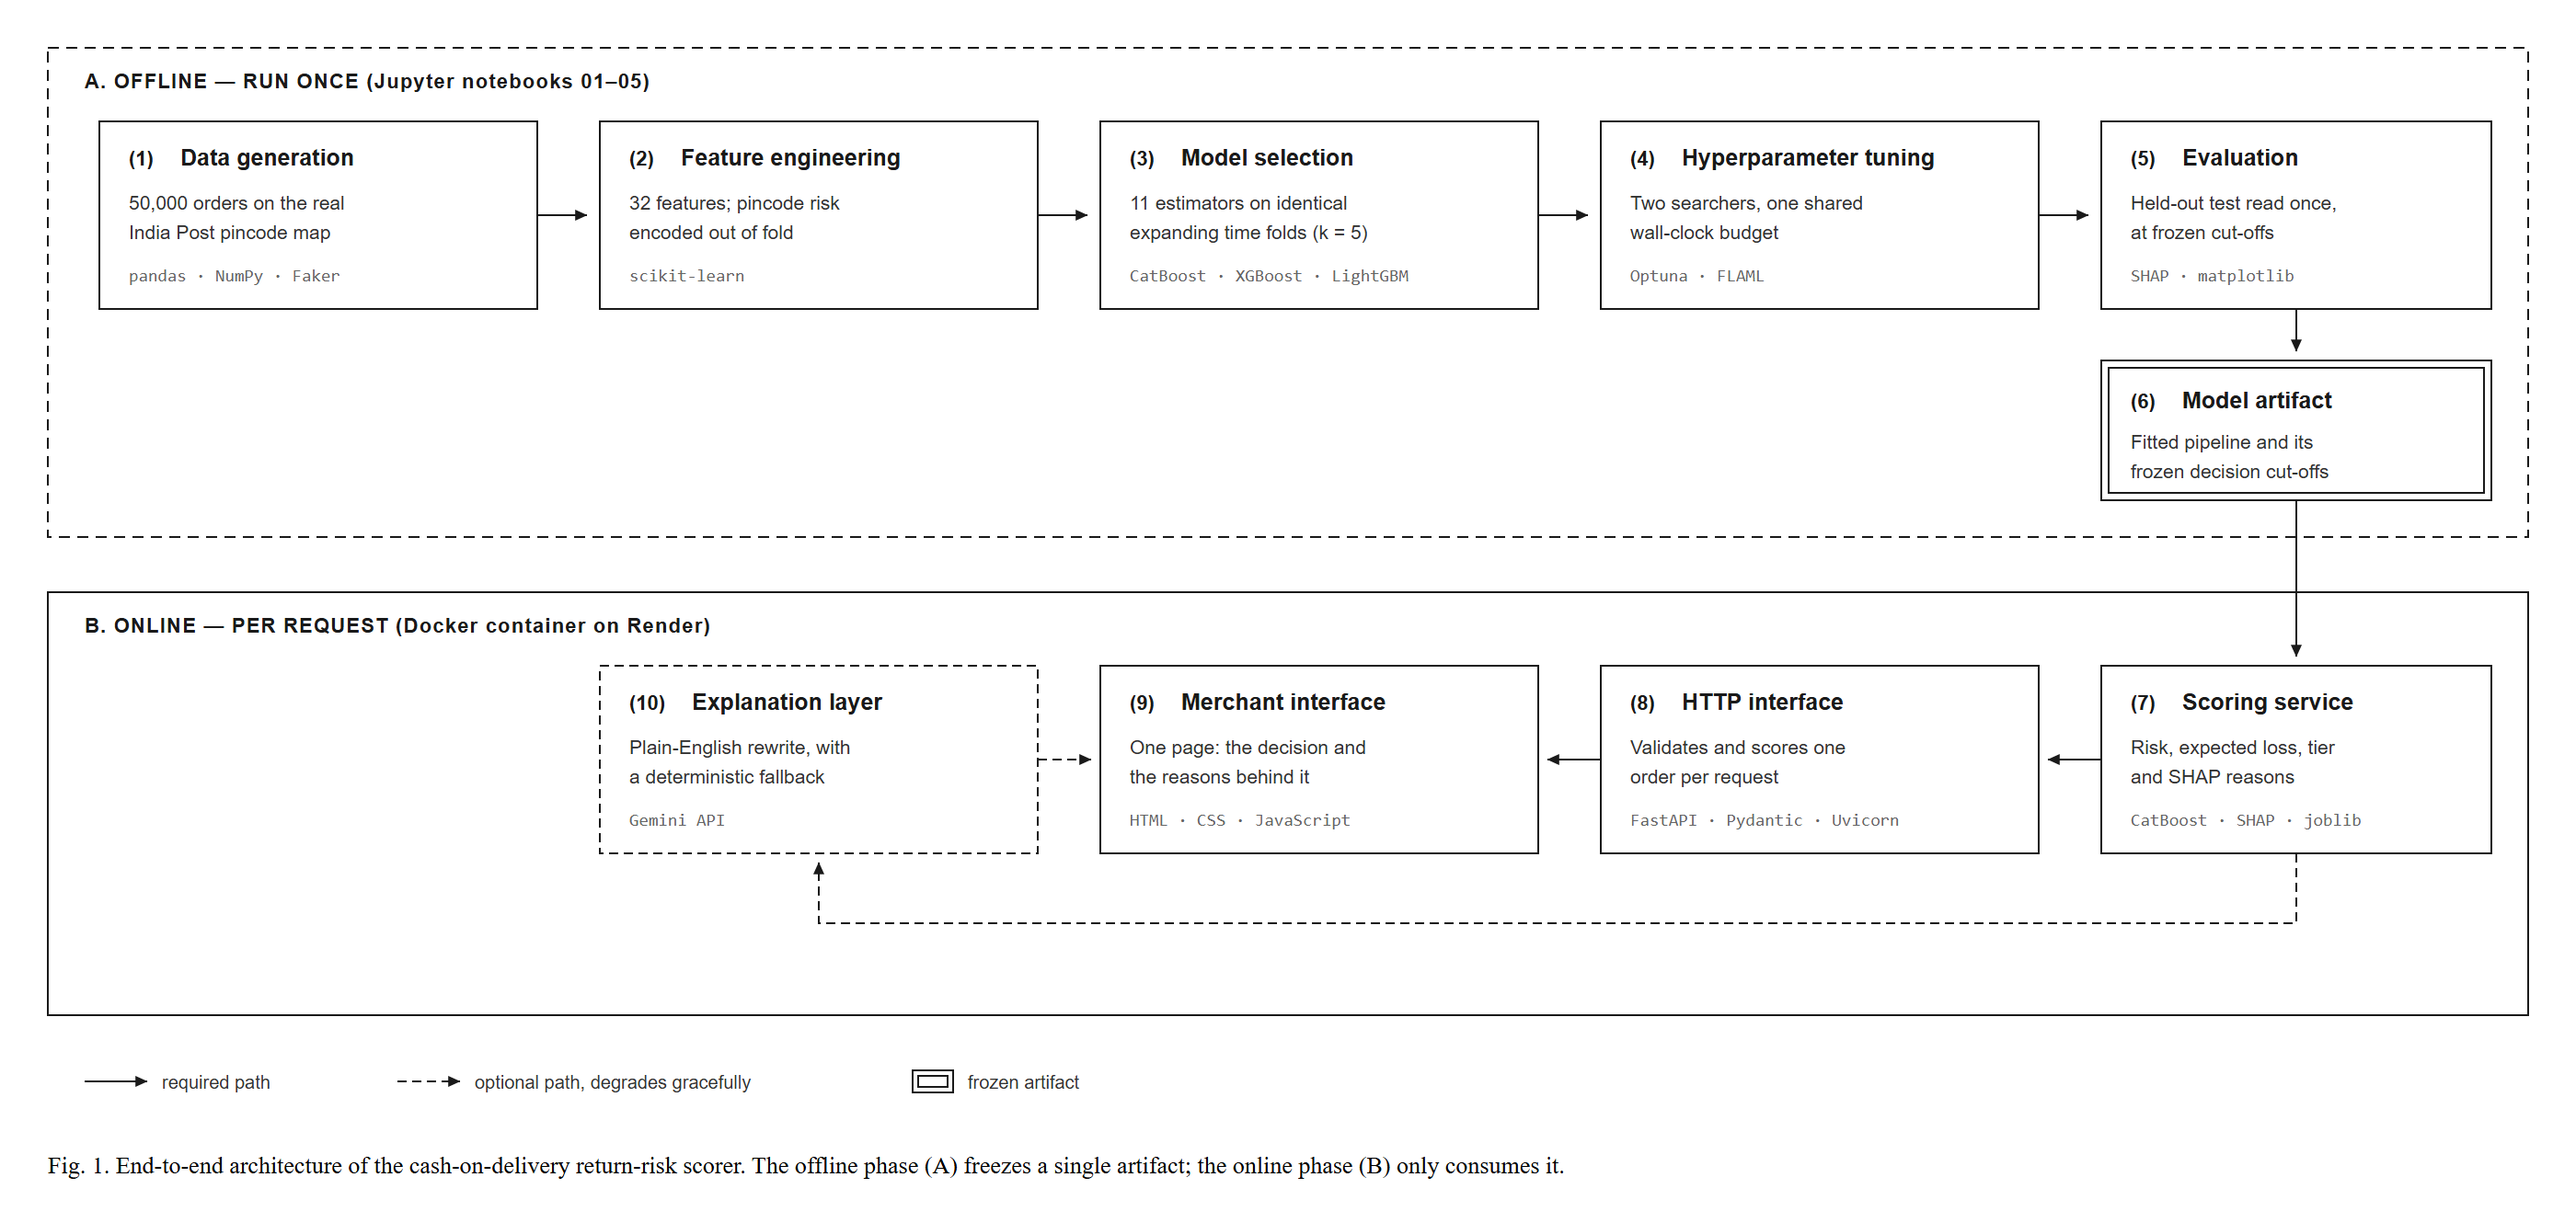
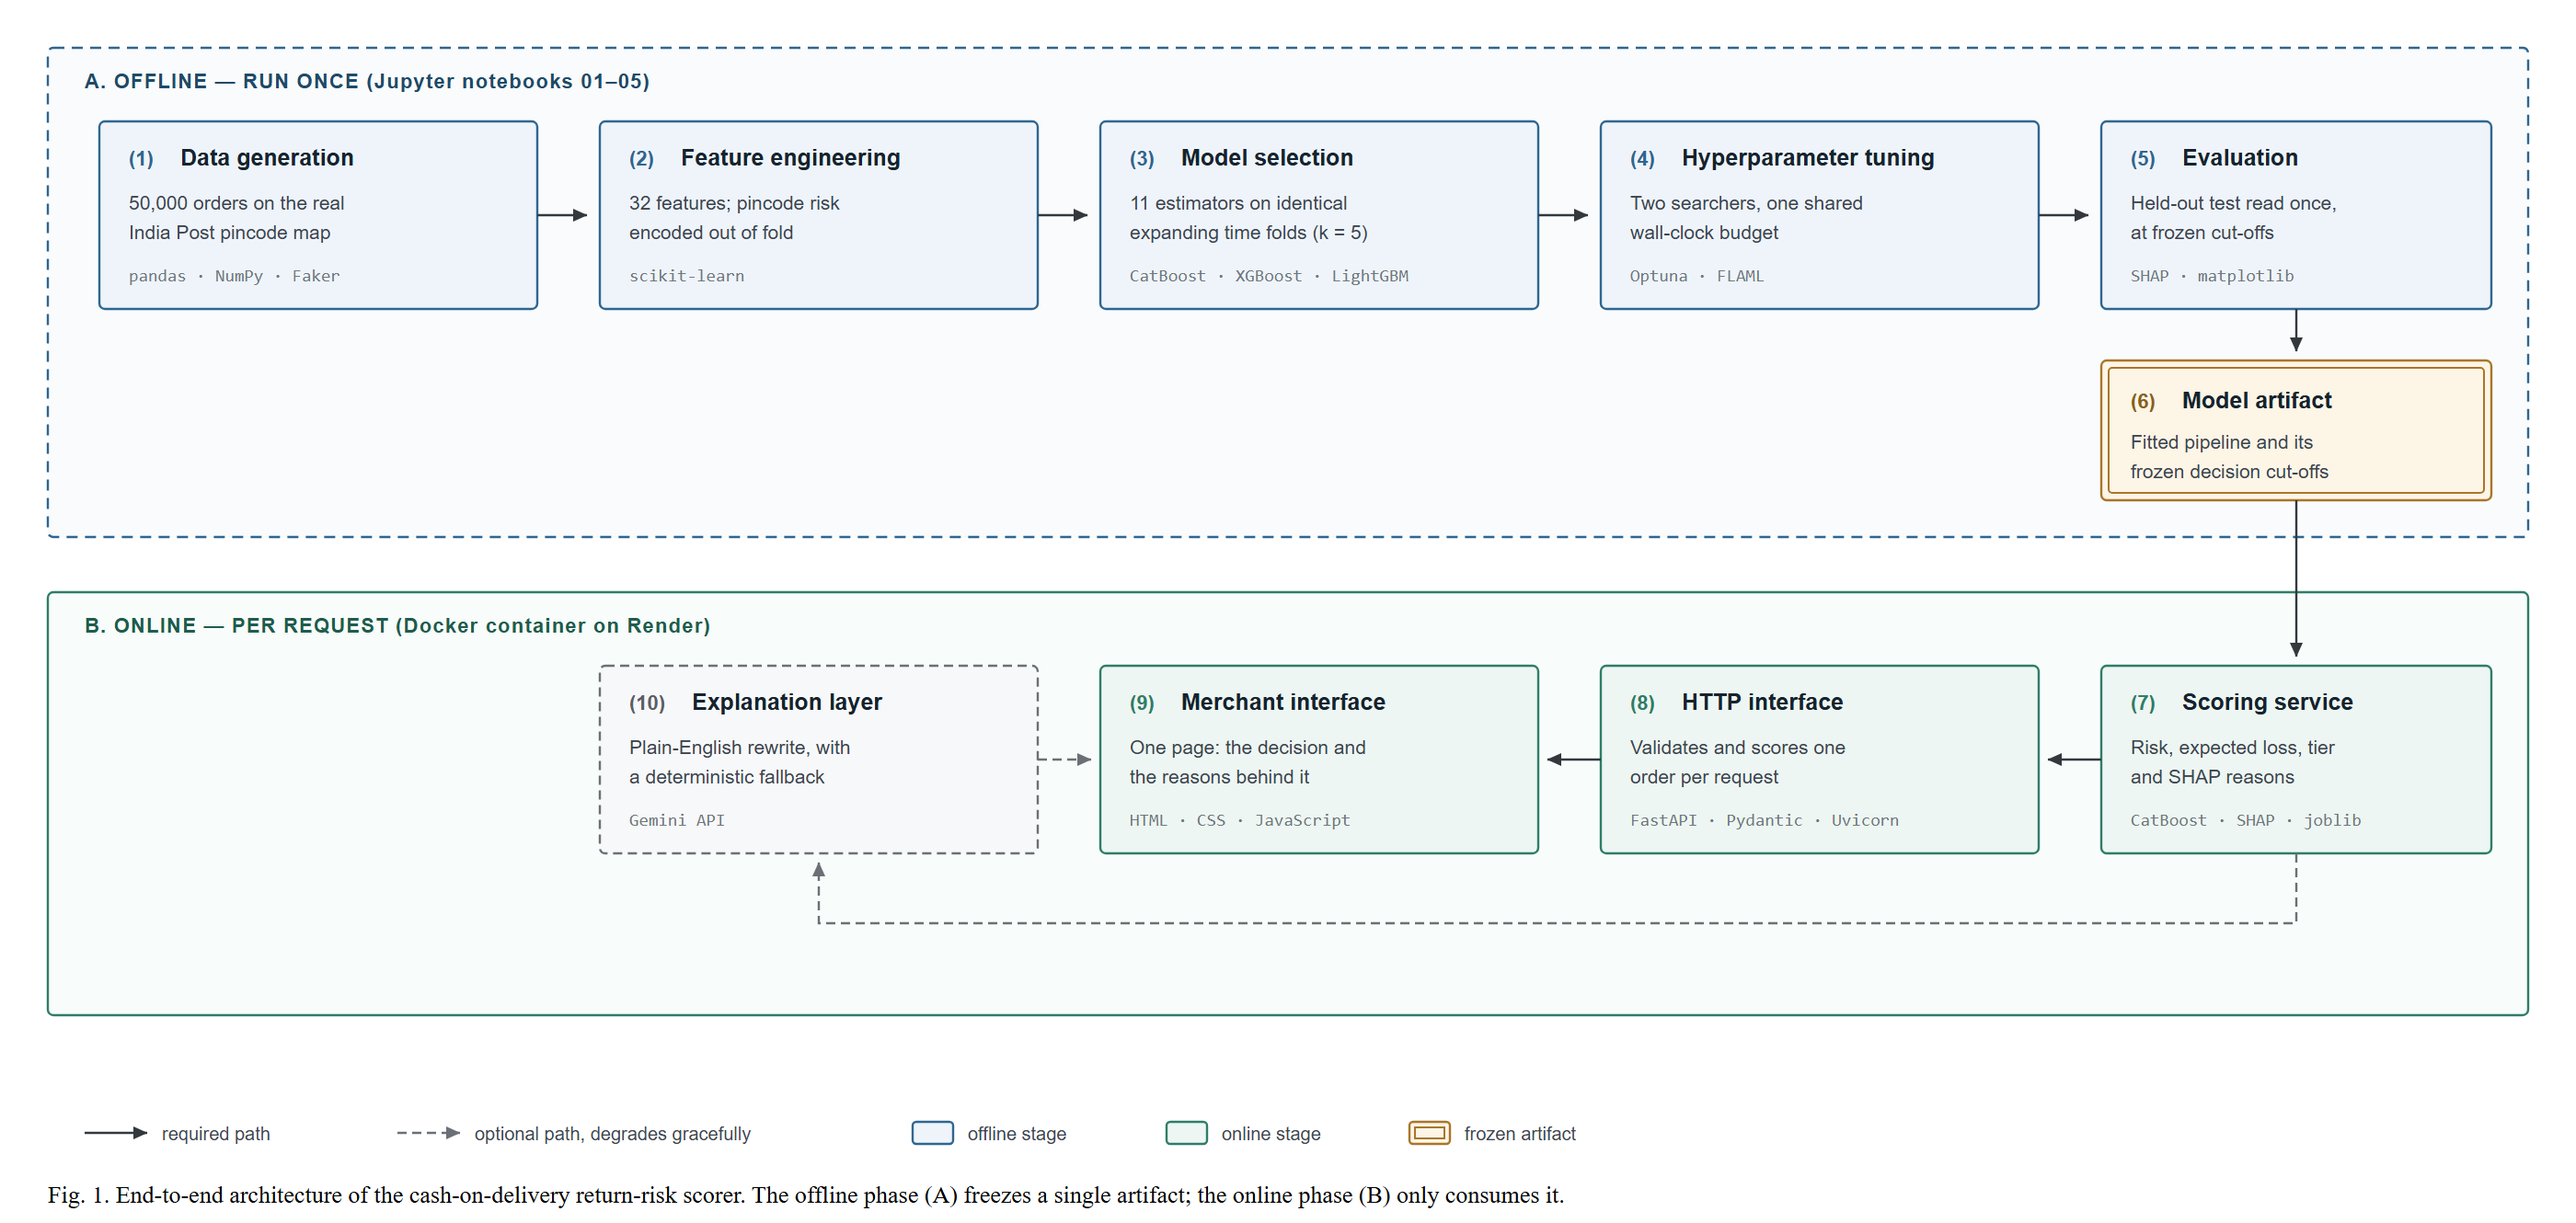
Colour the architecture figure, and put the README in conventional order
Figure: muted palette, blue for the offline stages, green for the online ones,
amber for the frozen artifact, neutral grey for the optional explanation layer.
Hue is redundant with shape throughout - the phases were already separated by a
dashed vs solid container and the optional path by dashed borders and arrows -
so the figure still reads in greyscale and under common colour-vision
deficiencies. Legend gains the two stage swatches.

README order: results were split across three places (a rupee summary near the
top, the charts in the middle, the metric tables at the bottom under "For the
technically minded"). They are now one Results section with four subsections,
and the order runs problem, what it does, demo, results, architecture, stack,
getting started, structure, method, limitations, defence, deployment, licence,
citation, author.

Fixes exposed by the reorder: two horizontal rules that sat inside a section
rather than between sections, a paragraph opening "The section above is
deliberately free of jargon" that no longer had that section above it, a
heading whose intro repeated it almost word for word, and a trailing rule after
the author line. Adds a Citation section pointing at CITATION.cff.

All 57 metric values re-verified against reports/results/ after the move.
No model, threshold, tier cut-off or result changed.

diff --git a/README.md b/README.md
@@ -46,23 +46,6 @@ You give it an order. It gives you four things, in plain English.
 
 It only ever advises. It never blocks a customer, takes money, or contacts anyone.
 
-## What it's worth
-
-Tested on 10,000 orders the model had never seen.
-
-| | |
-|---|---|
-| **Money saved** | **₹29,481** against the best you could do with no model at all |
-| **Cost of a lazy cut-off** | **₹20,835** — what you'd waste flagging at 50% out of habit instead of at the point where money is actually minimised |
-| **Catches** | About 1 in 4 of the orders that would have come back |
-| **When it flags an order** | It's right a little under half the time |
-
-That last row matters and it's stated deliberately. This is not a tool that is right every
-time. It's a tool that, once you add up the wins and the mistakes in rupees, leaves the
-seller better off.
-
----
-
 ## Demo
 
 Three real orders, scored by the live model. Switch between them in the dropdown.
@@ -83,36 +66,27 @@ The blue box at the top of each is written by Google Gemini, which turns the raw
 into something a shop owner can read. If the Gemini key is missing or its free quota is used
 up, the app writes the same summary itself and carries on working.
 
-## How it fits together
-
-![Architecture, from generated data through to the merchant-facing page](docs/architecture_diagram.png)
-
-Editable source, [`docs/architecture_diagram.svg`](docs/architecture_diagram.svg)
-
-## Built with
-
-| Stage | Stack |
-|---|---|
-| Data generation | pandas, NumPy, SciPy, Faker |
-| Modelling | scikit-learn, CatBoost, XGBoost, LightGBM |
-| Tuning | Optuna, FLAML |
-| Explainability | SHAP, and Google Gemini for the plain-English layer |
-| Charts | matplotlib, seaborn |
-| Service | FastAPI, Pydantic, Uvicorn, joblib |
-| Interface | HTML, CSS and JavaScript; Streamlit as an alternative UI |
-| Deployment | Docker, Render |
-| Tests | pytest, 55 tests |
-
-Python 3.13, exact versions pinned in [`requirements.txt`](requirements.txt). The container
-installs the shorter [`deploy/requirements-serve.txt`](deploy/requirements-serve.txt) instead,
-which drops Jupyter, Optuna, FLAML, Streamlit and matplotlib.
-
----
-
 ## Results
 
-Four charts that carry most of the argument. Every one is produced by the notebooks and
-lives in [`reports/figures/`](reports/figures/), nothing here was drawn by hand.
+### What it's worth
+
+Tested on 10,000 orders the model had never seen.
+
+| | |
+|---|---|
+| **Money saved** | **₹29,481** against the best you could do with no model at all |
+| **Cost of a lazy cut-off** | **₹20,835** — what you'd waste flagging at 50% out of habit instead of at the point where money is actually minimised |
+| **Catches** | About 1 in 4 of the orders that would have come back |
+| **When it flags an order** | It's right a little under half the time |
+
+That last row matters and it's stated deliberately. This is not a tool that is right every
+time. It's a tool that, once you add up the wins and the mistakes in rupees, leaves the
+seller better off.
+
+### The charts that carry the argument
+
+Each one is produced by the notebooks and lives in
+[`reports/figures/`](reports/figures/). Nothing here was drawn by hand.
 
 ### Did any model actually beat a simple one?
 
@@ -157,6 +131,71 @@ arithmetic corrects it, cutting the worst-case waste from **₹16.42 to ₹0.08 
 A second study reweights the test set to seven different merchant profiles, from
 metro-heavy to small-town, fashion-led to electronics-led. Ranking stays useful in all
 seven, and the full table is in [`WHAT_BROKE.md`](WHAT_BROKE.md) #18.
+
+### Every metric, in full
+
+**Headline numbers**, all backed by files in `reports/results/`. The full set, including
+per-segment, per-fold and per-profile breakdowns, is in [`reports/METRICS.md`](reports/METRICS.md).
+
+| | Test set | Validation |
+|---|---|---|
+| PR-AUC | 0.386, which is 2.62× the no-skill floor | 0.397 |
+| ROC-AUC | 0.806 | 0.810 |
+| Brier score | 0.106 | 0.109 |
+| Log loss | 0.336 | 0.344 |
+| Expected calibration error | 0.012 | 0.013 |
+| Mean predicted probability | 0.151, against a 0.147 base rate | 0.157, against 0.155 |
+| Precision / recall / F1 **at the frozen 0.37** | 0.458 / 0.269 / 0.339 | 0.480 / 0.297 / 0.367 |
+| Flag rate at 0.37 | 0.0864 | 0.0958 |
+
+The Bayes ceiling for this data is a PR-AUC of 0.555, so the model captures about 70% of it
+on test. A score above the ceiling would be evidence of a leak rather than of skill, and the
+notebooks assert on it.
+
+**The operating point is 0.37, not 0.5.** That row above is often misread, so here is the
+whole trade-off on the test set. The threshold was fixed on validation before the test set
+was opened; this table is descriptive and changed no decision.
+
+| Threshold | Precision | Recall | F1 | Flag rate | Cost / order |
+|---|---|---|---|---|---|
+| 0.20 | 0.333 | 0.688 | 0.449 | 30.47% | ₹32.53 |
+| 0.25 | 0.356 | 0.574 | 0.440 | 23.74% | ₹29.32 |
+| 0.30 | 0.377 | 0.439 | 0.406 | 17.15% | ₹27.81 |
+| 0.35 | 0.432 | 0.312 | 0.362 | 10.65% | ₹26.70 |
+| **0.37 ← frozen** | **0.458** | **0.269** | **0.339** | **8.64%** | **₹26.51** |
+| 0.40 | 0.477 | 0.193 | 0.275 | 5.95% | ₹27.13 |
+| 0.50 | 0.565 | 0.050 | 0.092 | 1.31% | ₹28.60 |
+
+F1 peaks near 0.25, but F1 is not the objective here — rupees are, and the cost minimum sits
+at 0.37. The 0.5 default flags barely 1% of orders and costs ₹20,835 more across 10,000
+orders, which is the whole argument for choosing a threshold on cost rather than habit.
+Full sweep, both splits, in [`reports/results/05_threshold_sweep.csv`](reports/results/05_threshold_sweep.csv).
+
+---
+
+## How it fits together
+
+![Architecture, from generated data through to the merchant-facing page](docs/architecture_diagram.png)
+
+Editable source, [`docs/architecture_diagram.svg`](docs/architecture_diagram.svg)
+
+## Built with
+
+| Stage | Stack |
+|---|---|
+| Data generation | pandas, NumPy, SciPy, Faker |
+| Modelling | scikit-learn, CatBoost, XGBoost, LightGBM |
+| Tuning | Optuna, FLAML |
+| Explainability | SHAP, and Google Gemini for the plain-English layer |
+| Charts | matplotlib, seaborn |
+| Service | FastAPI, Pydantic, Uvicorn, joblib |
+| Interface | HTML, CSS and JavaScript; Streamlit as an alternative UI |
+| Deployment | Docker, Render |
+| Tests | pytest, 55 tests |
+
+Python 3.13, exact versions pinned in [`requirements.txt`](requirements.txt). The container
+installs the shorter [`deploy/requirements-serve.txt`](deploy/requirements-serve.txt) instead,
+which drops Jupyter, Optuna, FLAML, Streamlit and matplotlib.
 
 ---
 
@@ -252,6 +291,37 @@ tests/          Calibration, leakage, API and fallback tests
 
 ---
 
+## For the technically minded
+
+Everything above is deliberately free of jargon. The rigour is all still here, in these documents.
+
+| Document | What's in it |
+|---|---|
+| [`PRE_REGISTRATION.md`](PRE_REGISTRATION.md) | Metrics, cost model and thresholds fixed **before** any model was trained, then git-tagged |
+| [`DATA_CARD.md`](DATA_CARD.md) | What is real, what is generated, the full schema, and every limitation |
+| [`ARCHITECTURE.md`](ARCHITECTURE.md) | System design, feature groups and the reproducibility contract |
+| [`WHAT_BROKE.md`](WHAT_BROKE.md) | 21 entries on what went wrong and how it was fixed, including the embarrassing ones |
+| [`reports/METRICS.md`](reports/METRICS.md) | **Every metric the project produced**, in ten tables, generated from `reports/results/` |
+
+**Method in brief.**
+
+- 50,000 orders split by time, 70/10/20. Never randomly, which would leak the future.
+- Generated data calibrated against published Indian statistics and enforced by test rather
+  than asserted in prose. `pytest tests/test_calibration.py` fails the build if the return
+  rates drift.
+- The order-value curve is deliberately non-monotonic. Risk peaks in the ₹500 to ₹1,000 band
+  and falls above ₹1,000, which is what the published data shows and the opposite of the
+  intuitive assumption.
+- Pincode history is target-encoded out of fold. Doing it the naive way inflates the
+  apparent score by 0.17 AUC, which notebook `02` measures rather than assumes.
+- 11 models benchmarked on identical folds, then Optuna and FLAML compared head to head on
+  an identical wall-clock budget.
+- The test set was opened once, at settings frozen on validation beforehand.
+- Performance is reported across the full 18% to 35% return range seen across Indian cities,
+  so behaviour under a shifted base rate is measured rather than assumed.
+
+---
+
 ## What it gets wrong
 
 Nothing here is hidden. Each limitation gets a plain-English version first.
@@ -282,74 +352,6 @@ them and should be treated as provisional.
 **A simple model did just as well.**
 Plain logistic regression matched everything more sophisticated. Tuning made the model
 slightly worse on unseen orders. Both findings are reported in full rather than buried.
-
----
-
-## For the technically minded
-
-The section above is deliberately free of jargon. The rigour is all still here.
-
-| Document | What's in it |
-|---|---|
-| [`PRE_REGISTRATION.md`](PRE_REGISTRATION.md) | Metrics, cost model and thresholds fixed **before** any model was trained, then git-tagged |
-| [`DATA_CARD.md`](DATA_CARD.md) | What is real, what is generated, the full schema, and every limitation |
-| [`ARCHITECTURE.md`](ARCHITECTURE.md) | System design, feature groups and the reproducibility contract |
-| [`WHAT_BROKE.md`](WHAT_BROKE.md) | 21 entries on what went wrong and how it was fixed, including the embarrassing ones |
-| [`reports/METRICS.md`](reports/METRICS.md) | **Every metric the project produced**, in ten tables, generated from `reports/results/` |
-
-**Headline numbers**, all backed by files in `reports/results/`. The full set, including
-per-segment, per-fold and per-profile breakdowns, is in [`reports/METRICS.md`](reports/METRICS.md).
-
-| | Test set | Validation |
-|---|---|---|
-| PR-AUC | 0.386, which is 2.62× the no-skill floor | 0.397 |
-| ROC-AUC | 0.806 | 0.810 |
-| Brier score | 0.106 | 0.109 |
-| Log loss | 0.336 | 0.344 |
-| Expected calibration error | 0.012 | 0.013 |
-| Mean predicted probability | 0.151, against a 0.147 base rate | 0.157, against 0.155 |
-| Precision / recall / F1 **at the frozen 0.37** | 0.458 / 0.269 / 0.339 | 0.480 / 0.297 / 0.367 |
-| Flag rate at 0.37 | 0.0864 | 0.0958 |
-
-The Bayes ceiling for this data is a PR-AUC of 0.555, so the model captures about 70% of it
-on test. A score above the ceiling would be evidence of a leak rather than of skill, and the
-notebooks assert on it.
-
-**The operating point is 0.37, not 0.5.** That row above is often misread, so here is the
-whole trade-off on the test set. The threshold was fixed on validation before the test set
-was opened; this table is descriptive and changed no decision.
-
-| Threshold | Precision | Recall | F1 | Flag rate | Cost / order |
-|---|---|---|---|---|---|
-| 0.20 | 0.333 | 0.688 | 0.449 | 30.47% | ₹32.53 |
-| 0.25 | 0.356 | 0.574 | 0.440 | 23.74% | ₹29.32 |
-| 0.30 | 0.377 | 0.439 | 0.406 | 17.15% | ₹27.81 |
-| 0.35 | 0.432 | 0.312 | 0.362 | 10.65% | ₹26.70 |
-| **0.37 ← frozen** | **0.458** | **0.269** | **0.339** | **8.64%** | **₹26.51** |
-| 0.40 | 0.477 | 0.193 | 0.275 | 5.95% | ₹27.13 |
-| 0.50 | 0.565 | 0.050 | 0.092 | 1.31% | ₹28.60 |
-
-F1 peaks near 0.25, but F1 is not the objective here — rupees are, and the cost minimum sits
-at 0.37. The 0.5 default flags barely 1% of orders and costs ₹20,835 more across 10,000
-orders, which is the whole argument for choosing a threshold on cost rather than habit.
-Full sweep, both splits, in [`reports/results/05_threshold_sweep.csv`](reports/results/05_threshold_sweep.csv).
-
-**Method in brief.**
-
-- 50,000 orders split by time, 70/10/20. Never randomly, which would leak the future.
-- Generated data calibrated against published Indian statistics and enforced by test rather
-  than asserted in prose. `pytest tests/test_calibration.py` fails the build if the return
-  rates drift.
-- The order-value curve is deliberately non-monotonic. Risk peaks in the ₹500 to ₹1,000 band
-  and falls above ₹1,000, which is what the published data shows and the opposite of the
-  intuitive assumption.
-- Pincode history is target-encoded out of fold. Doing it the naive way inflates the
-  apparent score by 0.17 AUC, which notebook `02` measures rather than assumes.
-- 11 models benchmarked on identical folds, then Optuna and FLAML compared head to head on
-  an identical wall-clock budget.
-- The test set was opened once, at settings frozen on validation beforehand.
-- Performance is reported across the full 18% to 35% return range seen across Indian cities,
-  so behaviour under a shifted base rate is measured rather than assumed.
 
 ---
 
@@ -401,8 +403,11 @@ free CPU. Only Static Spaces are free, and those cannot run a Python service.
 
 [MIT](LICENSE)
 
+## Citation
+
+Machine-readable metadata is in [`CITATION.cff`](CITATION.cff); GitHub renders a
+*Cite this repository* button from it.
+
 ## Author
 
 Anil Kumar
-
----
